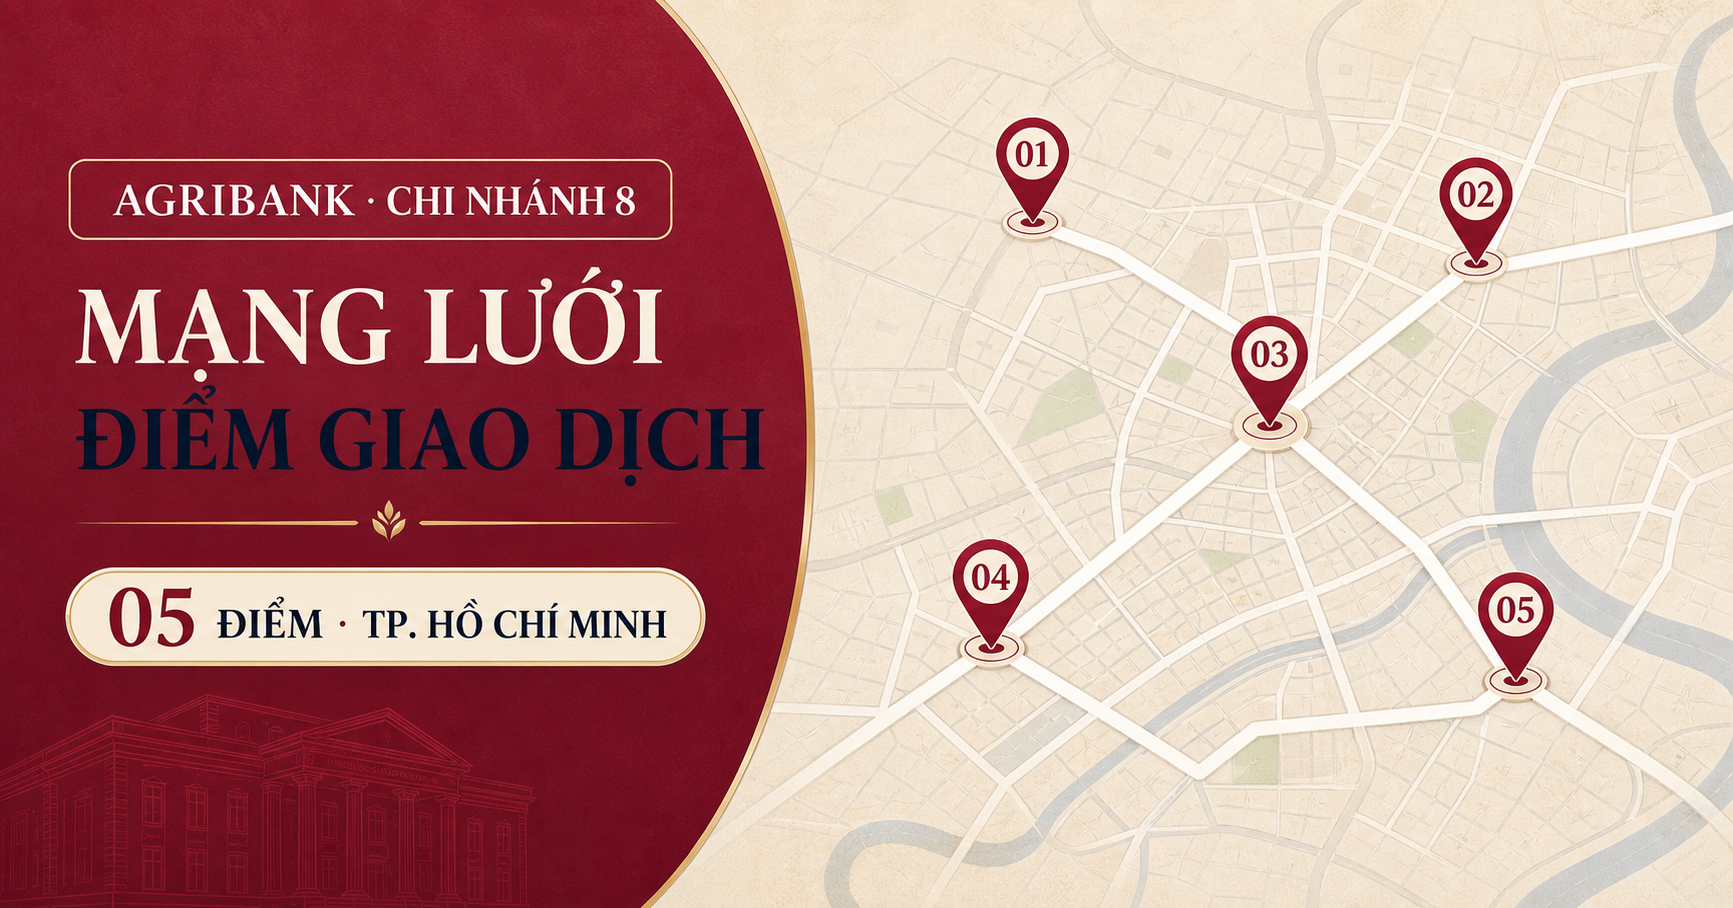
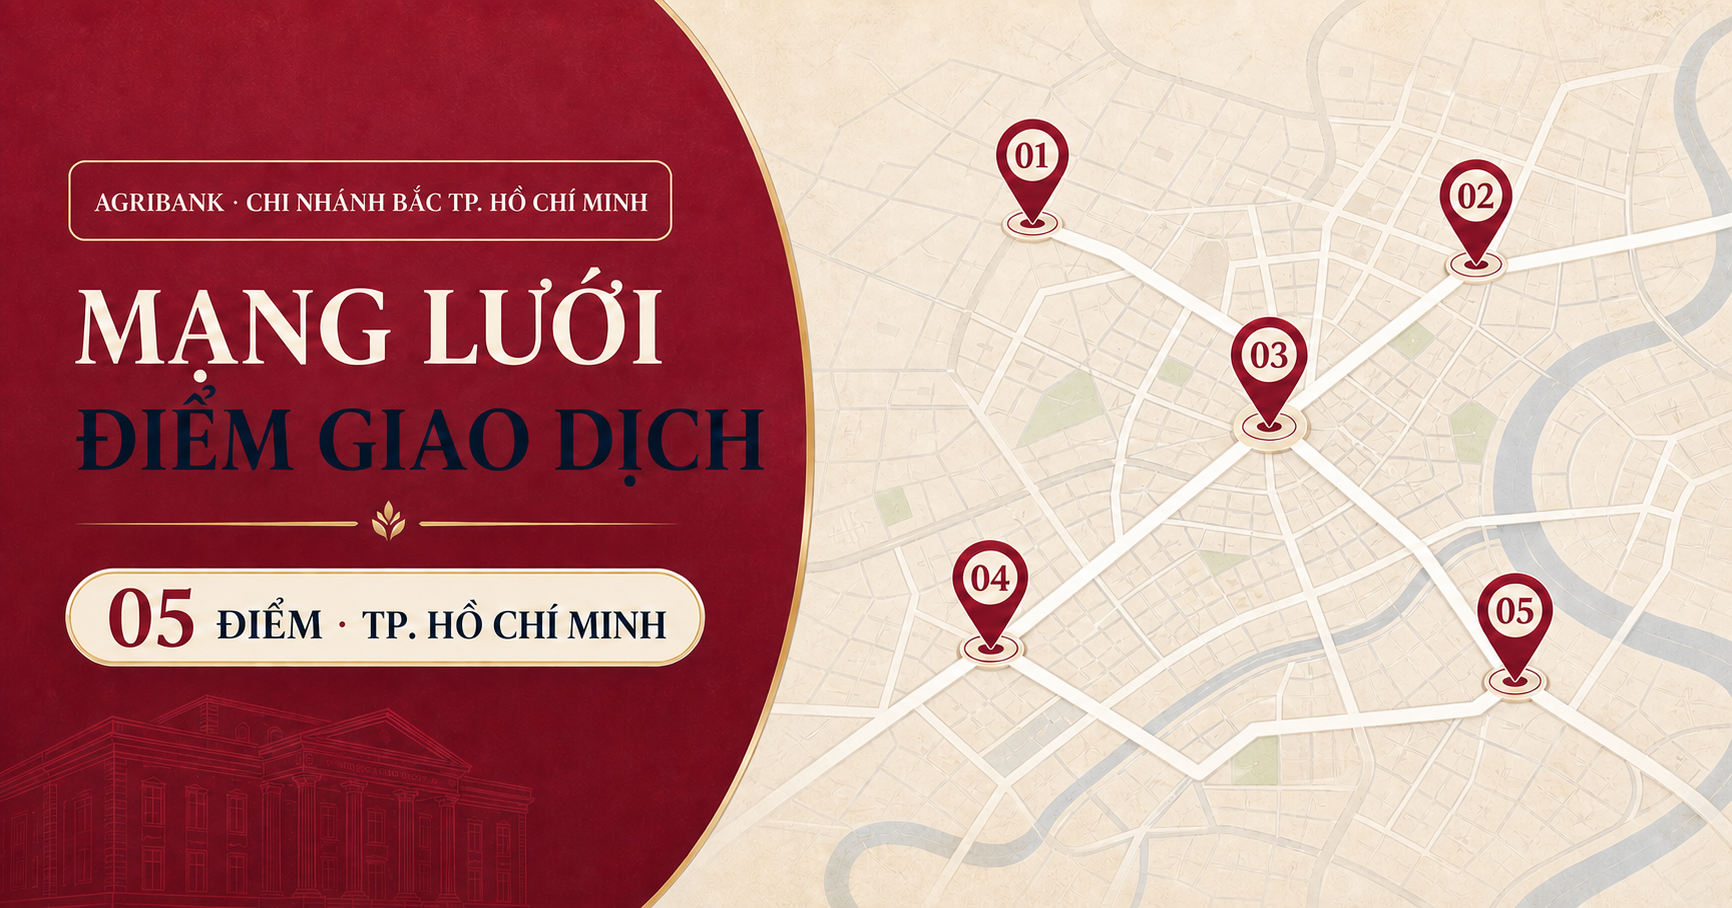
Update branch identity and map pins

diff --git a/app/globals.css b/app/globals.css
@@ -619,33 +619,74 @@ a {
 }
 
 .branch-marker {
+  --marker-size: 54px;
+  --pin-size: 38px;
+  --pin-inset: 8px;
+  --pin-bottom: 8px;
+
   position: absolute;
-  display: grid;
-  width: 42px;
-  height: 42px;
-  place-items: center;
+  z-index: 1;
+  width: var(--marker-size);
+  height: var(--marker-size);
   padding: 0;
-  border: 3px solid var(--white);
-  border-radius: 50%;
-  background: var(--burgundy);
-  box-shadow: 0 9px 22px rgba(73, 25, 42, 0.32);
+  border: 0;
+  background: transparent;
   color: var(--white);
   cursor: pointer;
   font-family: var(--font-geist-mono), monospace;
   font-size: 11px;
   font-weight: 800;
+  appearance: none;
+}
+
+.branch-marker.is-head-office {
+  --marker-size: 66px;
+  --pin-size: 46px;
+  --pin-inset: 10px;
+  --pin-bottom: 10px;
+
+  z-index: 2;
+  font-size: 13px;
+}
+
+.branch-marker.is-active {
+  z-index: 3;
+}
+
+.branch-marker-pin {
+  position: absolute;
+  bottom: var(--pin-bottom);
+  left: var(--pin-inset);
+  display: grid;
+  width: var(--pin-size);
+  height: var(--pin-size);
+  place-items: center;
+  border: 3px solid var(--white);
+  border-radius: 50% 50% 50% 0;
+  background: var(--burgundy);
+  box-shadow: 0 9px 22px rgba(73, 25, 42, 0.32);
+  transform: rotate(-45deg);
   transition:
     background 180ms ease,
     border-color 180ms ease,
     box-shadow 180ms ease;
 }
 
-.branch-marker > span {
-  line-height: 1;
+.branch-marker.is-head-office .branch-marker-pin {
+  border-width: 4px;
+  background: var(--burgundy-dark);
+  box-shadow:
+    0 0 0 4px rgba(217, 155, 25, 0.3),
+    0 12px 28px rgba(73, 25, 42, 0.38);
 }
 
-.branch-marker:hover,
-.branch-marker.is-active {
+.branch-marker-number {
+  line-height: 1;
+  transform: rotate(45deg);
+}
+
+.branch-marker:hover .branch-marker-pin,
+.branch-marker.is-active .branch-marker-pin {
   background: var(--burgundy-dark);
   border-color: #fff8e9;
   box-shadow:
@@ -653,9 +694,21 @@ a {
     0 8px 18px rgba(20, 36, 53, 0.22);
 }
 
+.branch-marker.is-head-office:hover .branch-marker-pin,
+.branch-marker.is-head-office.is-active .branch-marker-pin {
+  box-shadow:
+    0 0 0 6px rgba(217, 155, 25, 0.36),
+    0 10px 24px rgba(20, 36, 53, 0.3);
+}
+
 .branch-marker:focus-visible {
-  outline: 3px solid #ffd66c;
-  outline-offset: 3px;
+  outline: none;
+}
+
+.branch-marker:focus-visible .branch-marker-pin {
+  box-shadow:
+    0 0 0 5px #ffd66c,
+    0 10px 24px rgba(20, 36, 53, 0.28);
 }
 
 .maplibregl-popup {
@@ -1059,8 +1112,17 @@ a {
   }
 
   .branch-marker {
-    width: 46px;
-    height: 46px;
+    --marker-size: 58px;
+    --pin-size: 40px;
+    --pin-inset: 9px;
+    --pin-bottom: 8px;
+  }
+
+  .branch-marker.is-head-office {
+    --marker-size: 70px;
+    --pin-size: 48px;
+    --pin-inset: 11px;
+    --pin-bottom: 10px;
   }
 
   .maplibregl-ctrl-top-right {
@@ -1160,8 +1222,17 @@ a {
   }
 
   .branch-marker {
-    width: 48px;
-    height: 48px;
+    --marker-size: 60px;
+    --pin-size: 42px;
+    --pin-inset: 9px;
+    --pin-bottom: 9px;
+  }
+
+  .branch-marker.is-head-office {
+    --marker-size: 72px;
+    --pin-size: 50px;
+    --pin-inset: 11px;
+    --pin-bottom: 10px;
   }
 }
 

diff --git a/app/BranchMap.tsx b/app/BranchMap.tsx
@@ -28,7 +28,7 @@ export const BRANCHES: readonly Branch[] = [
   {
     id: "hoi-so",
     number: 1,
-    name: "H\u1ed9i s\u1edf",
+    name: "Agribank Chi nh\u00e1nh B\u1eafc Th\u00e0nh ph\u1ed1 H\u1ed3 Ch\u00ed Minh",
     type: "H\u1ed8I S\u1ede",
     address:
       "925 - 925 (ABCD), T\u1ea1 Quang B\u1eedu, Ph\u01b0\u1eddng B\u00ecnh \u0110\u00f4ng, TP. H\u1ed3 Ch\u00ed Minh",
@@ -452,7 +452,7 @@ export default function BranchMap({
           closeButton: true,
           closeOnClick: false,
           maxWidth: "310px",
-          offset: 24,
+          offset: 64,
         });
 
         map.addControl(
@@ -462,11 +462,15 @@ export default function BranchMap({
 
         BRANCHES.forEach((branch) => {
           const element = document.createElement("button");
+          const pin = document.createElement("span");
           const number = document.createElement("span");
           element.type = "button";
-          element.className = "branch-marker";
+          element.className = `branch-marker${branch.id === "hoi-so" ? " is-head-office" : ""}`;
+          pin.className = "branch-marker-pin";
+          number.className = "branch-marker-number";
           number.textContent = String(branch.number).padStart(2, "0");
-          element.append(number);
+          pin.append(number);
+          element.append(pin);
           element.title = branch.name;
           element.setAttribute(
             "aria-label",
@@ -480,7 +484,7 @@ export default function BranchMap({
           };
           element.addEventListener("click", handleClick);
 
-          const marker = new maplibregl.Marker({ element, anchor: "center" })
+          const marker = new maplibregl.Marker({ element, anchor: "bottom" })
             .setLngLat(branch.coordinates)
             .addTo(map as MapLibreMap);
 

diff --git a/app/page.tsx b/app/page.tsx
@@ -5,8 +5,8 @@ import BranchMap, { BRANCHES } from "./BranchMap";
 
 const COPY = {
   directory: "Danh b\u1ea1 \u0111i\u1ec3m giao d\u1ecbch",
-  brandLabel: "Agribank Chi nh\u00e1nh 8",
-  branch8: "CHI NH\u00c1NH 8",
+  brandLabel: "Agribank Chi nh\u00e1nh B\u1eafc Th\u00e0nh ph\u1ed1 H\u1ed3 Ch\u00ed Minh",
+  branchLabel: "CHI NH\u00c1NH B\u1eaeC TP. H\u1ed2 CH\u00cd MINH",
   networkMap: "B\u1ea2N \u0110\u1ed2 M\u1ea0NG L\u01af\u1edaI",
   region: "KHU V\u1ef0C TP. H\u1ed2 CH\u00cd MINH",
   network: "M\u1ea1ng l\u01b0\u1edbi",
@@ -105,7 +105,7 @@ export default function Home() {
             <span className="brand-mark" aria-hidden="true">A</span>
             <span>
               <strong>AGRIBANK</strong>
-              <small>{COPY.branch8}</small>
+              <small>{COPY.branchLabel}</small>
             </span>
           </a>
           <span className="live-dot"><i aria-hidden="true" />{COPY.networkMap}</span>
@@ -200,7 +200,7 @@ export default function Home() {
         </nav>
 
         <footer className="directory-footer">
-          <span>AGRIBANK - {COPY.branch8}</span>
+          <span>AGRIBANK - {COPY.branchLabel}</span>
           <span>{COPY.cityYear}</span>
         </footer>
       </aside>

diff --git a/app/layout.tsx b/app/layout.tsx
@@ -14,16 +14,17 @@ const geistMono = Geist_Mono({
 });
 
 const metadataCopy = {
-  title: "M\u1ea1ng l\u01b0\u1edbi \u0111i\u1ec3m giao d\u1ecbch | Agribank Chi nh\u00e1nh 8",
+  title:
+    "M\u1ea1ng l\u01b0\u1edbi \u0111i\u1ec3m giao d\u1ecbch | Agribank Chi nh\u00e1nh B\u1eafc Th\u00e0nh ph\u1ed1 H\u1ed3 Ch\u00ed Minh",
   description:
-    "B\u1ea3n \u0111\u1ed3 t\u01b0\u01a1ng t\u00e1c 5 \u0111i\u1ec3m giao d\u1ecbch Agribank Chi nh\u00e1nh 8 t\u1ea1i TP. H\u1ed3 Ch\u00ed Minh.",
+    "B\u1ea3n \u0111\u1ed3 t\u01b0\u01a1ng t\u00e1c 5 \u0111i\u1ec3m giao d\u1ecbch Agribank Chi nh\u00e1nh B\u1eafc Th\u00e0nh ph\u1ed1 H\u1ed3 Ch\u00ed Minh.",
   applicationName: "B\u1ea3n \u0111\u1ed3 m\u1ea1ng l\u01b0\u1edbi Agribank",
 };
 
 const siteUrl = "https://agribank-chi-nhanh-8-map.vodangthinh4.chatgpt.site";
 const imageUrl = `${siteUrl}/og.png`;
 const socialTitle =
-  "M\u1ea1ng l\u01b0\u1edbi \u0111i\u1ec3m giao d\u1ecbch Agribank Chi nh\u00e1nh 8";
+  "M\u1ea1ng l\u01b0\u1edbi \u0111i\u1ec3m giao d\u1ecbch Agribank Chi nh\u00e1nh B\u1eafc Th\u00e0nh ph\u1ed1 H\u1ed3 Ch\u00ed Minh";
 const socialDescription =
   "Kh\u00e1m ph\u00e1 v\u1ecb tr\u00ed v\u00e0 c\u00e1c tr\u1ee5c k\u1ebft n\u1ed1i ch\u00ednh c\u1ee7a 5 \u0111i\u1ec3m giao d\u1ecbch t\u1ea1i TP. H\u1ed3 Ch\u00ed Minh.";
 